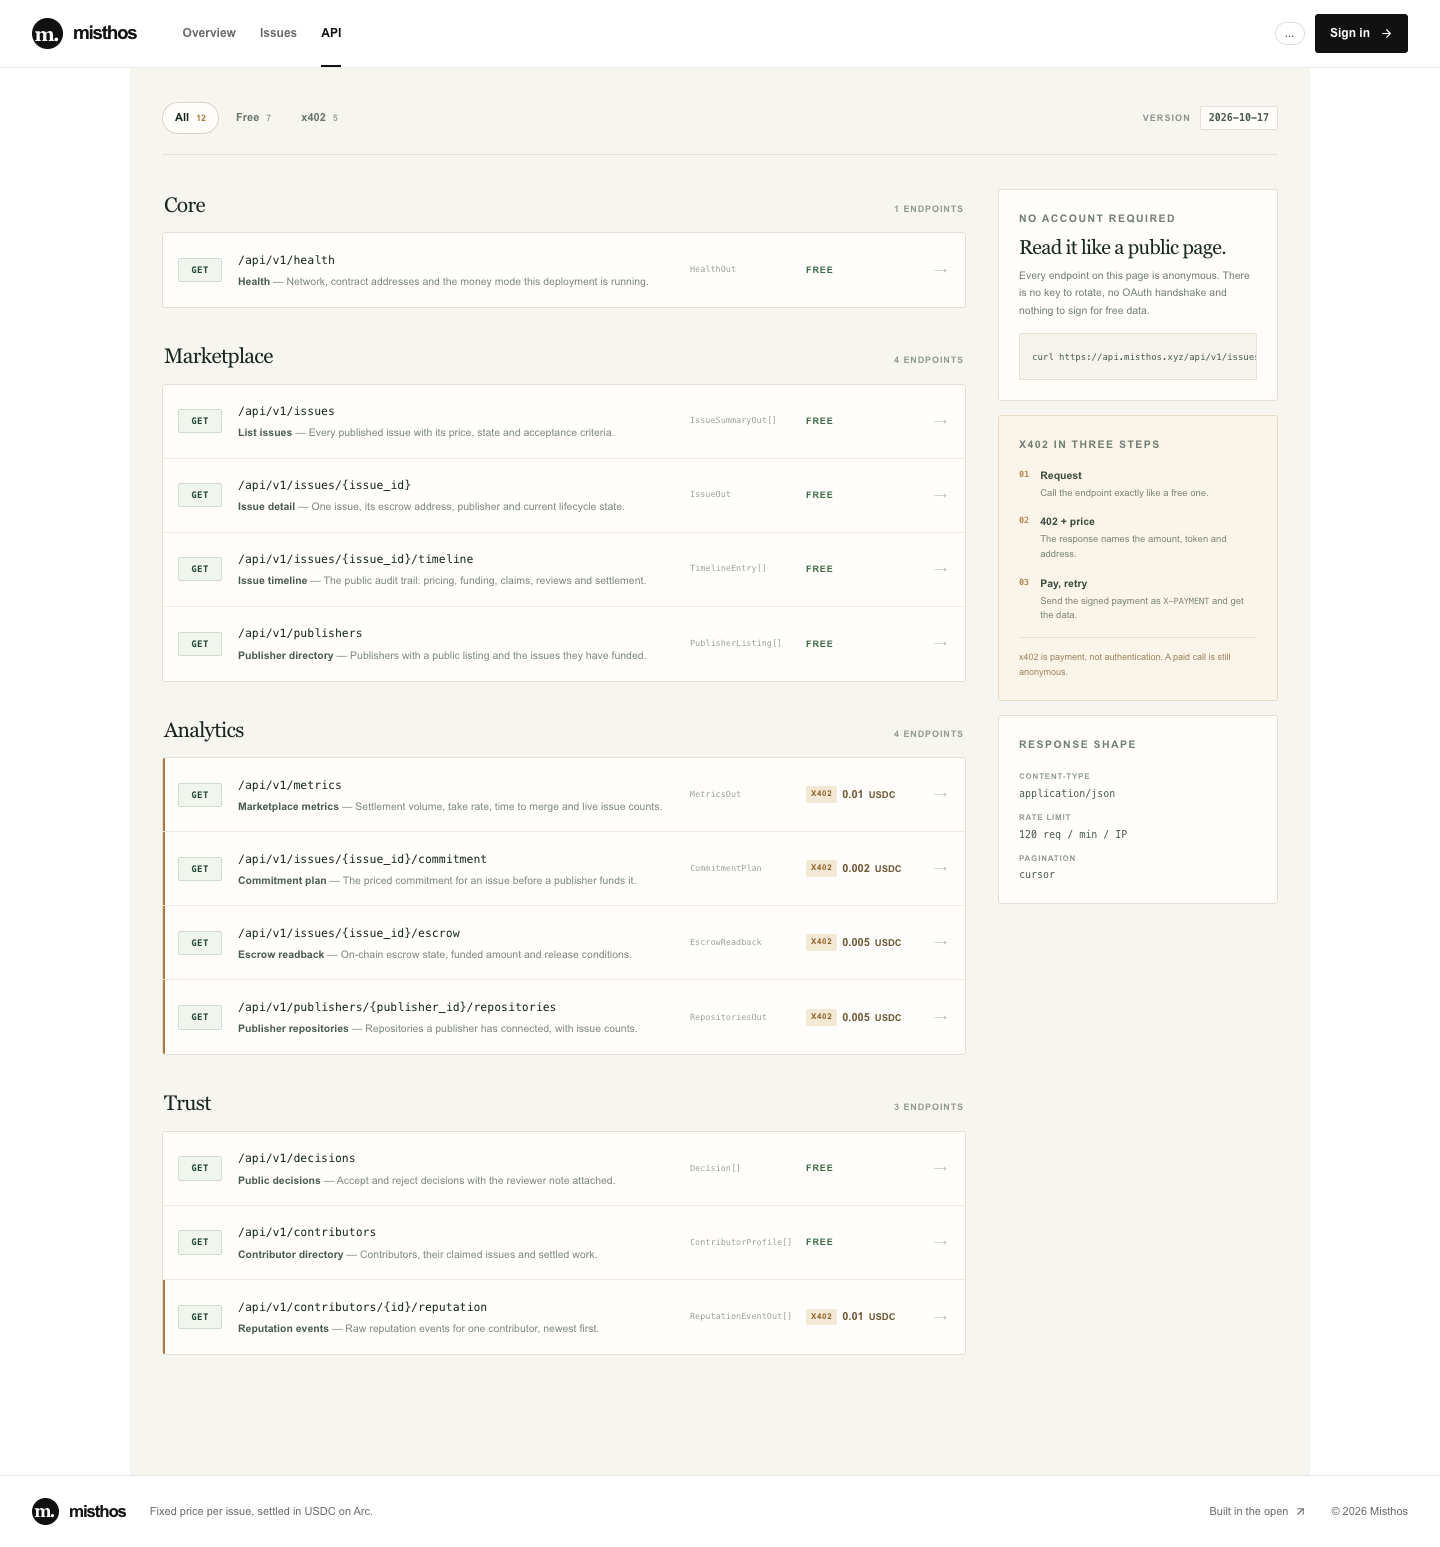
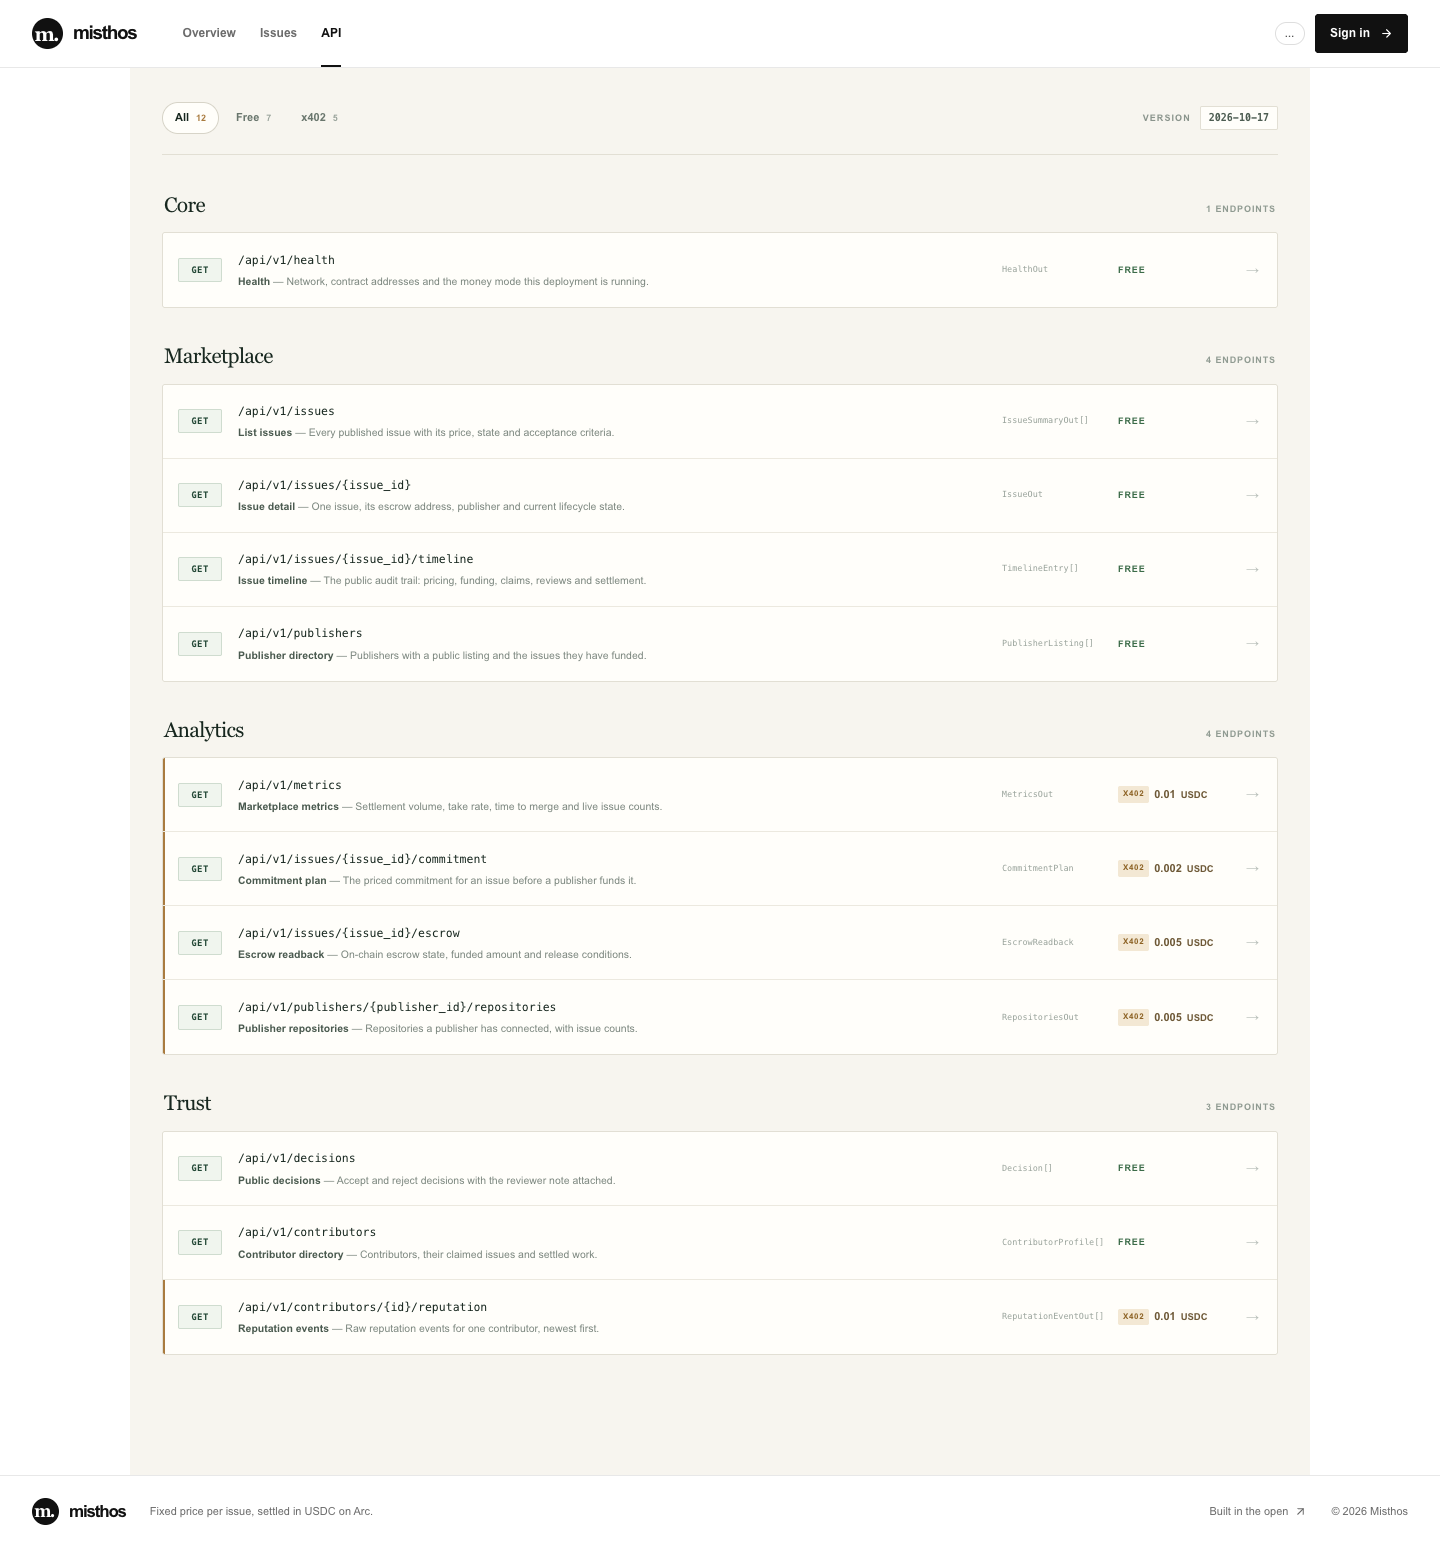
spike(web): drop the hero and the API sidebar
The catalogue is the page. Nothing above it and nothing beside it.

diff --git a/frontend/src/routes/public-api.css b/frontend/src/routes/public-api.css
@@ -5,7 +5,6 @@
   --api-bg: #f7f5ef;
   --api-card: #fffefa;
   --api-ink: #17271f;
-  --api-muted: #68756c;
   --api-green: #224735;
   --api-gold: #a97b3f;
   --api-gold-soft: #f3e8d4;
@@ -89,10 +88,6 @@
 }
 
 .api-layout {
-  display: grid;
-  grid-template-columns: minmax(0, 1fr) 280px;
-  gap: 32px;
-  align-items: start;
   padding-top: 34px;
 }
 
@@ -242,147 +237,6 @@
   font-size: 13px;
 }
 
-.api-aside {
-  position: sticky;
-  top: 92px;
-  display: flex;
-  flex-direction: column;
-  gap: 14px;
-}
-
-.api-card {
-  padding: 20px;
-  border: 1px solid var(--api-line);
-  border-radius: 3px;
-  background: var(--api-card);
-}
-
-.api-card.tinted {
-  border-color: #e5d9c2;
-  background: #fbf5e9;
-}
-
-.api-card-kicker {
-  margin-bottom: 9px;
-  color: #929c94;
-  font-size: 8.5px;
-  font-weight: 700;
-  letter-spacing: 0.14em;
-  text-transform: uppercase;
-}
-
-.api-card h3 {
-  margin-bottom: 8px;
-  font-family: Georgia, 'Times New Roman', serif;
-  font-size: 20px;
-  font-weight: 400;
-  letter-spacing: -0.035em;
-  line-height: 1.15;
-}
-
-.api-card > p {
-  color: #727e75;
-  font-size: 10.5px;
-  line-height: 1.65;
-}
-
-.api-card pre {
-  margin-top: 14px;
-  padding: 12px;
-  overflow-x: auto;
-  border: 1px solid #e4e1d6;
-  border-radius: 2px;
-  background: #f5f3ec;
-}
-
-.api-card pre code {
-  color: #4a5a4f;
-  font-family: ui-monospace, SFMono-Regular, Menlo, Consolas, monospace;
-  font-size: 9px;
-  line-height: 1.6;
-}
-
-.api-steps {
-  display: flex;
-  flex-direction: column;
-  gap: 13px;
-  margin: 14px 0;
-  list-style: none;
-}
-
-.api-steps li {
-  display: flex;
-  gap: 11px;
-}
-
-.api-steps li > span {
-  flex-shrink: 0;
-  padding-top: 1px;
-  color: #b08a52;
-  font-family: ui-monospace, SFMono-Regular, Menlo, Consolas, monospace;
-  font-size: 8.5px;
-  font-weight: 700;
-}
-
-.api-steps b {
-  display: block;
-  margin-bottom: 2px;
-  color: #3b4b40;
-  font-size: 10.5px;
-  font-weight: 700;
-}
-
-.api-steps p {
-  color: #7d8477;
-  font-size: 9.5px;
-  line-height: 1.55;
-}
-
-.api-steps code {
-  font-family: ui-monospace, SFMono-Regular, Menlo, Consolas, monospace;
-  font-size: 8.5px;
-}
-
-.api-footnote {
-  padding-top: 12px;
-  border-top: 1px solid #eadfc9;
-  color: #9a815a !important;
-  font-size: 9px !important;
-}
-
-.api-shape {
-  display: grid;
-  grid-template-columns: 1fr;
-  gap: 2px;
-  margin-top: 10px;
-}
-
-.api-shape span {
-  margin-top: 8px;
-  color: #929c94;
-  font-size: 8px;
-  font-weight: 700;
-  letter-spacing: 0.1em;
-  text-transform: uppercase;
-}
-
-.api-shape code {
-  color: #4a5a4f;
-  font-family: ui-monospace, SFMono-Regular, Menlo, Consolas, monospace;
-  font-size: 10px;
-}
-
-@media (max-width: 1080px) {
-  .api-layout {
-    grid-template-columns: 1fr;
-  }
-  .api-aside {
-    position: static;
-    display: grid;
-    grid-template-columns: 1fr 1fr;
-  }
-}
-
 @media (max-width: 760px) {
   .api-index {
     margin: -28px -20px -64px;
@@ -397,8 +251,5 @@
   .api-returns,
   .api-arrow {
     display: none;
-  }
-  .api-aside {
-    grid-template-columns: 1fr;
   }
 }

diff --git a/frontend/src/routes/PublicApi.tsx b/frontend/src/routes/PublicApi.tsx
@@ -182,62 +182,6 @@ export default function PublicApi() {
             )
           })}
         </main>
-
-        <aside className="api-aside">
-          <section className="api-card">
-            <p className="api-card-kicker">No account required</p>
-            <h3>Read it like a public page.</h3>
-            <p>
-              Every endpoint on this page is anonymous. There is no key to rotate, no OAuth
-              handshake and nothing to sign for free data.
-            </p>
-            <pre>
-              <code>{`curl https://api.misthos.xyz/api/v1/issues`}</code>
-            </pre>
-          </section>
-
-          <section className="api-card tinted" id="x402">
-            <p className="api-card-kicker">x402 in three steps</p>
-            <ol className="api-steps">
-              <li>
-                <span>01</span>
-                <div>
-                  <b>Request</b>
-                  <p>Call the endpoint exactly like a free one.</p>
-                </div>
-              </li>
-              <li>
-                <span>02</span>
-                <div>
-                  <b>402 + price</b>
-                  <p>The response names the amount, token and address.</p>
-                </div>
-              </li>
-              <li>
-                <span>03</span>
-                <div>
-                  <b>Pay, retry</b>
-                  <p>Send the signed payment as <code>X-PAYMENT</code> and get the data.</p>
-                </div>
-              </li>
-            </ol>
-            <p className="api-footnote">
-              x402 is payment, not authentication. A paid call is still anonymous.
-            </p>
-          </section>
-
-          <section className="api-card">
-            <p className="api-card-kicker">Response shape</p>
-            <div className="api-shape">
-              <span>content-type</span>
-              <code>application/json</code>
-              <span>rate limit</span>
-              <code>120 req / min / IP</code>
-              <span>pagination</span>
-              <code>cursor</code>
-            </div>
-          </section>
-        </aside>
       </div>
     </div>
   )
